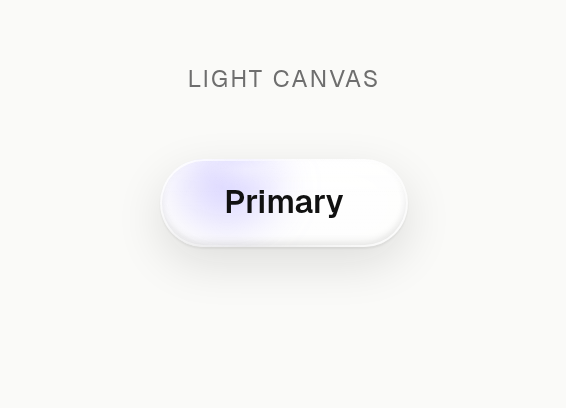
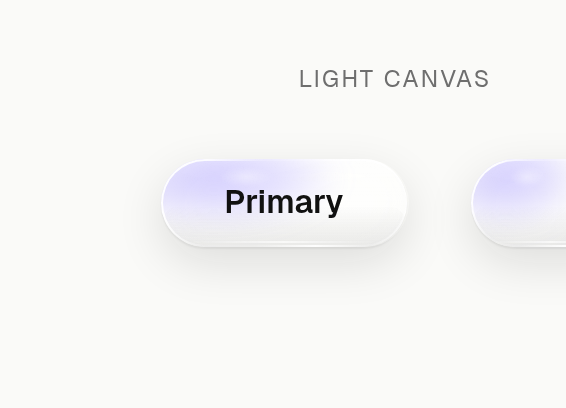
Build Primary reference button to the construction model (optical layers)
Re-implement the single /dev/glass reference per DISCIPLINE_GLASS_CONSTRUCTION
+ GRAMMAR (Micro Surface) + BUDGET. Adds the missing displacement refraction
(SVG feTurbulence + feDisplacementMap via backdrop-filter url), explicit volume
zones (convex top face, core, denser bottom face), a bright internal-reflection
(TIR) line, a crisp convex specular, a Fresnel edge with tension (bright → break
→ dark), and the violet as a contained caustic sheet in the core. Proof page
adds blind (empty) and grayscale (silhouette) variants for the material tests.
Only the isolated reference changes; no library component touched; no theory or
tokens modified.

Claude-Session: https://claude.ai/code/session_01JSKxADquWPscGGWu93W5g6

diff --git a/src/app/(dev)/dev/glass/glass.css b/src/app/(dev)/dev/glass/glass.css
@@ -1,11 +1,9 @@
 /*
  * Primary reference button — DISCIPLINE Liquid Glass material.
- * REBUILT as a stack of discrete optical layers (one element per physical
- * layer), composing the canonical --ds-glass-* sub-tokens. See
- * docs/DISCIPLINE_GLASS_MATERIAL.md. Isolated dev reference; no library file.
- *
- * Implied light: one soft source, upper-left, slightly frontal — shared by the
- * whole product. Highlights live top/upper-left; shadows bottom/lower-right.
+ * Models light crossing a thick glass capsule (docs/DISCIPLINE_GLASS_*.md).
+ * One element per optical layer; colors/opacities come from --ds-glass-* tokens.
+ * Implied light: single soft source, upper-left, slightly frontal.
+ * Isolated dev reference; no library component involved.
  */
 
 .gb {
@@ -29,13 +27,14 @@
   transition: transform var(--ds-dur-fast) var(--ds-ease-standard);
 }
 
-/* All optical layers fill the pill and never catch the pointer. */
 .gb__shadow,
 .gb__glass,
 .gb__edge,
-.gb__volume,
-.gb__incident,
-.gb__reflection,
+.gb__core,
+.gb__bottomface,
+.gb__topface,
+.gb__violet,
+.gb__tir,
 .gb__specular {
   position: absolute;
   inset: 0;
@@ -43,94 +42,130 @@
   pointer-events: none;
 }
 
-/* ── Layer: ombre portée (cast shadow) — behind the glass ─────────────── */
+/* ── 1. Cast shadow (ambient float + contact anchor), behind the glass ──── */
 .gb__shadow {
   z-index: 0;
   box-shadow: var(--ds-glass-shadow-contact), var(--ds-glass-shadow-ambient);
   transition: box-shadow var(--ds-dur-fast) var(--ds-ease-standard);
 }
 
-/* ── Layer: réfraction (refractive body) — bends the background through it.
-   This is the clipping container that holds the internal optical layers, so
-   the captured light stays *inside* the glass volume. ─────────────────── */
+/* ── 2. Refractive body: bends (displaces) + diffuses + re-saturates the
+   background. The displacement filter (#gb-refract) is the missing "real
+   refraction" — the rim visibly warps what is behind. Clips inner layers so the
+   captured light stays inside the volume. A faint inset rim crisps the inner
+   wall (Fresnel hint from inside). ───────────────────────────────────────── */
 .gb__glass {
   z-index: 1;
   overflow: hidden;
-  backdrop-filter: blur(var(--ds-glass-blur))
+  backdrop-filter: url(#gb-refract) blur(var(--ds-glass-blur))
     saturate(var(--ds-glass-saturation)) brightness(var(--ds-glass-brightness));
   -webkit-backdrop-filter: blur(var(--ds-glass-blur))
     saturate(var(--ds-glass-saturation)) brightness(var(--ds-glass-brightness));
+  box-shadow:
+    inset 0 1px 0 var(--ds-glass-inner-highlight),
+    inset 0 0 0 0.5px var(--ds-glass-edge-dim);
 }
 
-/* ── Layer: volume interne (glass thickness): lit top → shaded bottom, plus an
-   inset bottom shadow that reads as the lower inner wall. ──────────────── */
-.gb__volume {
+/* ── 3. Core transmission (near-colorless body — the central clear zone) ── */
+.gb__core {
   background: linear-gradient(
     180deg,
     var(--ds-glass-fill-top) 0%,
     var(--ds-glass-fill-bottom) 100%
   );
-  box-shadow: inset 0 -2px 4px var(--ds-glass-inner-shadow);
 }
 
-/* ── Layer: lumière incidente (incident light hitting the top face) ────── */
-.gb__incident {
+/* ── 4a. Bottom face: the lower zone reads denser (occluded light) ─────── */
+.gb__bottomface {
+  top: 52%;
   background: linear-gradient(
     180deg,
+    transparent 0%,
+    var(--ds-glass-inner-shadow) 140%
+  );
+}
+
+/* ── 4b. Top face: convex, lit — a curved gloss that domes the surface ──── */
+.gb__topface {
+  bottom: 46%;
+  background: radial-gradient(
+    120% 180% at 42% -60%,
     var(--ds-glass-inner-highlight) 0%,
-    transparent 38%
+    transparent 64%
   );
   mix-blend-mode: screen;
 }
 
-/* ── Layer: réflexion interne (the violet light captured in the glass volume).
-   A soft, blurred, asymmetric luminance suspended upper-left — NOT a fill, NOT
-   a background gradient. Clipped by .gb__glass so it lives within the volume. */
-.gb__reflection {
+/* ── 5. Violet caustic: a soft *sheet* of light folded into the core,
+   upper-left, asymmetric, contained — light trapped in the thickness, not a
+   blob laid on top. Clipped by .gb__glass. ──────────────────────────────── */
+.gb__violet {
   inset: auto;
-  top: -55%;
-  left: -8%;
-  width: 70%;
-  height: 170%;
-  border-radius: 50%;
+  top: -18%;
+  left: -12%;
+  width: 88%;
+  height: 116%;
+  border-radius: 60% 55% 58% 62%;
   background: radial-gradient(
-    closest-side,
+    78% 64% at 38% 34%,
     var(--ds-glass-capture-rim) 0%,
-    var(--ds-glass-capture) 38%,
-    var(--ds-glass-capture-falloff) 78%
+    var(--ds-glass-capture) 42%,
+    var(--ds-glass-capture-falloff) 76%
   );
-  filter: blur(9px);
+  filter: blur(6px);
   transition:
     transform var(--ds-dur-fast) var(--ds-ease-standard),
     opacity var(--ds-dur-fast) var(--ds-ease-standard);
 }
 
-/* ── Layer: reflet spéculaire (sharp glint) — small, soft, left of centre ─ */
+/* ── 6. Internal-reflection (TIR) line: the bright glass "underline" on the
+   lower inner edge. ─────────────────────────────────────────────────────── */
+.gb__tir {
+  inset: auto;
+  left: 12%;
+  right: 12%;
+  bottom: 2px;
+  height: 1.5px;
+  border-radius: var(--ds-radius-pill);
+  background: linear-gradient(
+    90deg,
+    transparent 0%,
+    var(--ds-glass-edge-light) 50%,
+    transparent 100%
+  );
+  opacity: 0.7;
+}
+
+/* ── 7. Specular glint: small, crisp, convex, left of centre ────────────── */
 .gb__specular {
   inset: auto;
-  top: 3px;
-  left: 16%;
-  width: 38%;
-  height: 40%;
-  border-radius: var(--ds-radius-pill);
+  top: 2px;
+  left: 20%;
+  width: 30%;
+  height: 30%;
+  border-radius: 50%;
   background: radial-gradient(
-    62% 100% at 50% 0%,
+    closest-side,
     var(--ds-glass-specular) 0%,
     transparent 72%
   );
   opacity: var(--ds-glass-specular-opacity);
-  filter: blur(1.5px);
+  filter: blur(0.6px);
 }
 
-/* ── Layer: bord de verre (luminous machined rim): 1px gradient ring,
-   bright top-left → dim. Sits above the glass so it reads as the lit edge. ─ */
+/* ── 8. Fresnel edge: bright machined rim, brighter than the face, with
+   tension — bright → break → dark → bright, tracking the light. ─────────── */
 .gb__edge {
   z-index: 2;
   padding: var(--ds-glass-edge-width);
   background: linear-gradient(
-    135deg,
+    125deg,
     var(--ds-glass-edge-light) 0%,
-    var(--ds-glass-edge-dim) 52%,
+    var(--ds-glass-edge-light) 14%,
+    var(--ds-glass-edge-dim) 34%,
+    var(--ds-glass-edge-dim) 50%,
+    var(--ds-glass-edge-light) 70%,
+    var(--ds-glass-edge-dim) 88%,
     var(--ds-glass-edge-light) 100%
   );
   -webkit-mask:
@@ -148,8 +183,7 @@
   z-index: 3;
 }
 
-/* ── Interaction: the glass meets the light; the captured violet shifts but
-   never changes colour. ─────────────────────────────────────────────────── */
+/* ── Interaction: the glass meets the light; violet shifts, never recolors ─ */
 .gb:hover {
   transform: translateY(-1px);
 }
@@ -158,7 +192,7 @@
     var(--ds-glass-shadow-contact), var(--ds-glass-shadow-hover),
     var(--ds-glass-glow);
 }
-.gb:hover .gb__reflection {
+.gb:hover .gb__violet {
   transform: translate(2%, -3%);
 }
 
@@ -168,9 +202,9 @@
 .gb:active .gb__shadow {
   box-shadow: var(--ds-glass-shadow-contact), var(--ds-glass-glow);
 }
-.gb:active .gb__reflection {
+.gb:active .gb__violet {
   transform: translate(0, 2%);
-  opacity: 0.85;
+  opacity: 0.88;
 }
 
 .gb:focus-visible {
@@ -181,7 +215,7 @@
 @media (prefers-reduced-motion: reduce) {
   .gb,
   .gb__shadow,
-  .gb__reflection {
+  .gb__violet {
     transition-duration: 0.01ms;
   }
   .gb:active {
@@ -203,4 +237,7 @@
 }
 .proof-cap-dark {
   color: rgba(255, 255, 255, 0.6);
+}
+.proof-grayscale {
+  filter: grayscale(1);
 }

diff --git a/src/app/(dev)/dev/glass/page.tsx b/src/app/(dev)/dev/glass/page.tsx
@@ -4,9 +4,10 @@ import { GlassButtonPrimary } from './glass-button-primary'
 
 /**
  * Glass material proof — development only (404 in production).
- * Renders the single Primary reference button over a light canvas and a dark
- * media panel so the material's transparency, edge light and violet capture can
- * be judged on both backgrounds. No other component is involved.
+ * Renders the single Primary reference button on a light canvas and a dark media
+ * panel (transparency, edge light, violet capture), plus a blind (empty) button
+ * and a grayscale silhouette strip for DISCIPLINE_GLASS_TESTS.md. No other
+ * component is involved.
  */
 export const metadata = { robots: { index: false, follow: false } }
 
@@ -15,16 +16,51 @@ export default function GlassReferencePage() {
 
   return (
     <main>
-      <section className="proof-light flex min-h-[50vh] flex-col items-center justify-center gap-6 p-12">
+      {/* Refraction displacement filter (defined once; referenced by .gb__glass). */}
+      <svg width="0" height="0" aria-hidden style={{ position: 'absolute' }}>
+        <filter id="gb-refract" x="-20%" y="-20%" width="140%" height="140%">
+          <feTurbulence
+            type="fractalNoise"
+            baseFrequency="0.012 0.02"
+            numOctaves={2}
+            seed={7}
+            result="noise"
+          />
+          <feDisplacementMap
+            in="SourceGraphic"
+            in2="noise"
+            scale={8}
+            xChannelSelector="R"
+            yChannelSelector="G"
+          />
+        </filter>
+      </svg>
+
+      <section className="proof-light flex min-h-[42vh] flex-col items-center justify-center gap-6 p-12">
         <p className="text-caption uppercase tracking-widest text-text-tertiary">
           Light canvas
         </p>
-        <GlassButtonPrimary>Primary</GlassButtonPrimary>
+        <div className="flex items-center gap-6">
+          <GlassButtonPrimary>Primary</GlassButtonPrimary>
+          {/* Blind test — empty button must still read as glass. */}
+          <GlassButtonPrimary>{'    '}</GlassButtonPrimary>
+        </div>
       </section>
 
-      <section className="proof-dark flex min-h-[50vh] flex-col items-center justify-center gap-6 p-12">
+      <section className="proof-dark flex min-h-[42vh] flex-col items-center justify-center gap-6 p-12">
         <p className="proof-cap-dark text-caption uppercase tracking-widest">
           Dark media panel
+        </p>
+        <div className="flex items-center gap-6">
+          <GlassButtonPrimary>Primary</GlassButtonPrimary>
+          <GlassButtonPrimary>{'    '}</GlassButtonPrimary>
+        </div>
+      </section>
+
+      {/* Silhouette test — grayscale: volume must still read without color. */}
+      <section className="proof-dark proof-grayscale flex min-h-[24vh] flex-col items-center justify-center gap-4 p-12">
+        <p className="proof-cap-dark text-caption uppercase tracking-widest">
+          Silhouette (grayscale)
         </p>
         <GlassButtonPrimary>Primary</GlassButtonPrimary>
       </section>

diff --git a/src/app/(dev)/dev/glass/glass-button-primary.tsx b/src/app/(dev)/dev/glass/glass-button-primary.tsx
@@ -3,20 +3,14 @@ import './glass.css'
 /**
  * GlassButtonPrimary — the single reference for the DISCIPLINE glass material.
  *
- * Rebuilt from scratch as a STACK OF OPTICAL LAYERS (not effects piled on one
- * element). Each child is one physical layer of the material, per
- * docs/DISCIPLINE_GLASS_MATERIAL.md. Back → front:
+ * Built per docs/DISCIPLINE_GLASS_CONSTRUCTION.md as a stack of optical layers
+ * that model light crossing a thick glass capsule (Micro Surface role,
+ * Grammar §2; Budget: ★★★★★ Fresnel · ★★★★ Specular · concentrated violet).
  *
- *   gb__shadow      — ombre portée (cast shadow, sits behind the glass)
- *   gb__glass       — réfraction (the refractive body that bends the background)
- *     gb__volume      — volume interne (glass thickness, lit top → shaded bottom)
- *     gb__incident    — lumière incidente (light hitting the top face)
- *     gb__reflection  — réflexion interne (the violet light captured in the volume)
- *     gb__specular    — reflet spéculaire (sharp glint)
- *   gb__edge        — bord de verre (luminous machined rim)
- *   gb__label       — content
- *
- * Isolated dev reference; no library component is involved.
+ * Layers (back → front): cast shadow · refractive body (displacement) ·
+ * core transmission · bottom face + TIR line · top convex face · violet caustic ·
+ * crisp specular · Fresnel edge · label. The displacement refraction filter
+ * (#gb-refract) is defined once on the page.
  */
 export function GlassButtonPrimary({
   children,
@@ -27,9 +21,11 @@ export function GlassButtonPrimary({
     <button type="button" className="gb">
       <span className="gb__shadow" aria-hidden />
       <span className="gb__glass" aria-hidden>
-        <span className="gb__volume" />
-        <span className="gb__incident" />
-        <span className="gb__reflection" />
+        <span className="gb__core" />
+        <span className="gb__bottomface" />
+        <span className="gb__topface" />
+        <span className="gb__violet" />
+        <span className="gb__tir" />
         <span className="gb__specular" />
       </span>
       <span className="gb__edge" aria-hidden />
